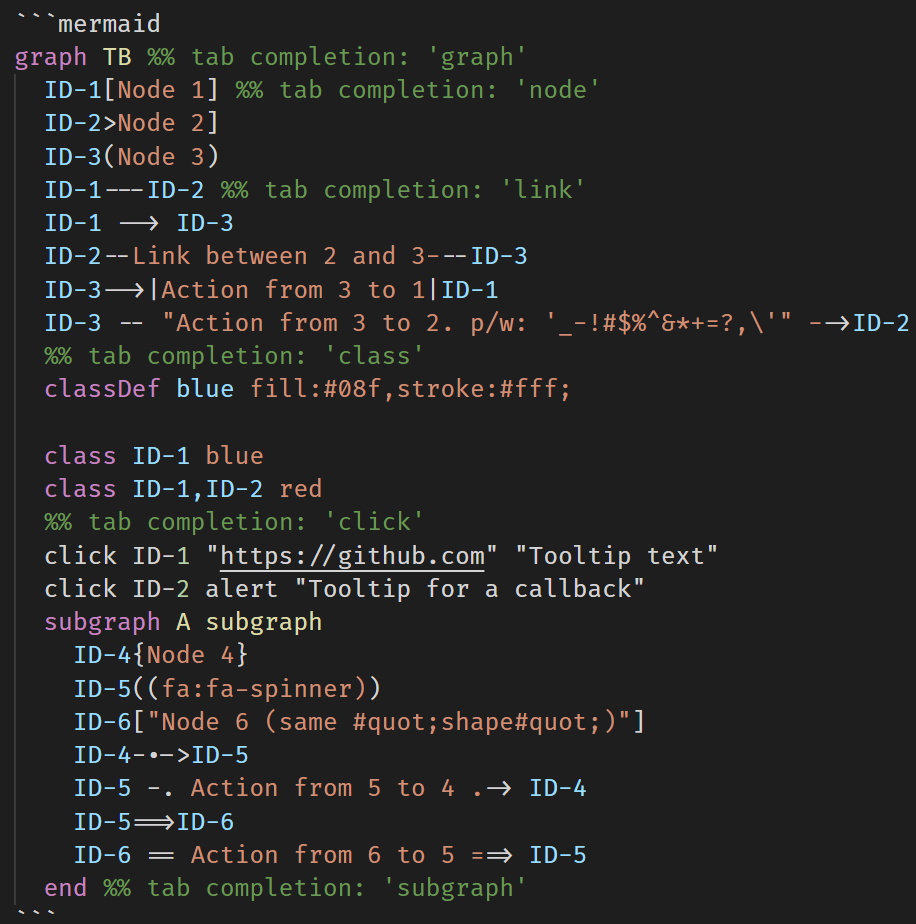
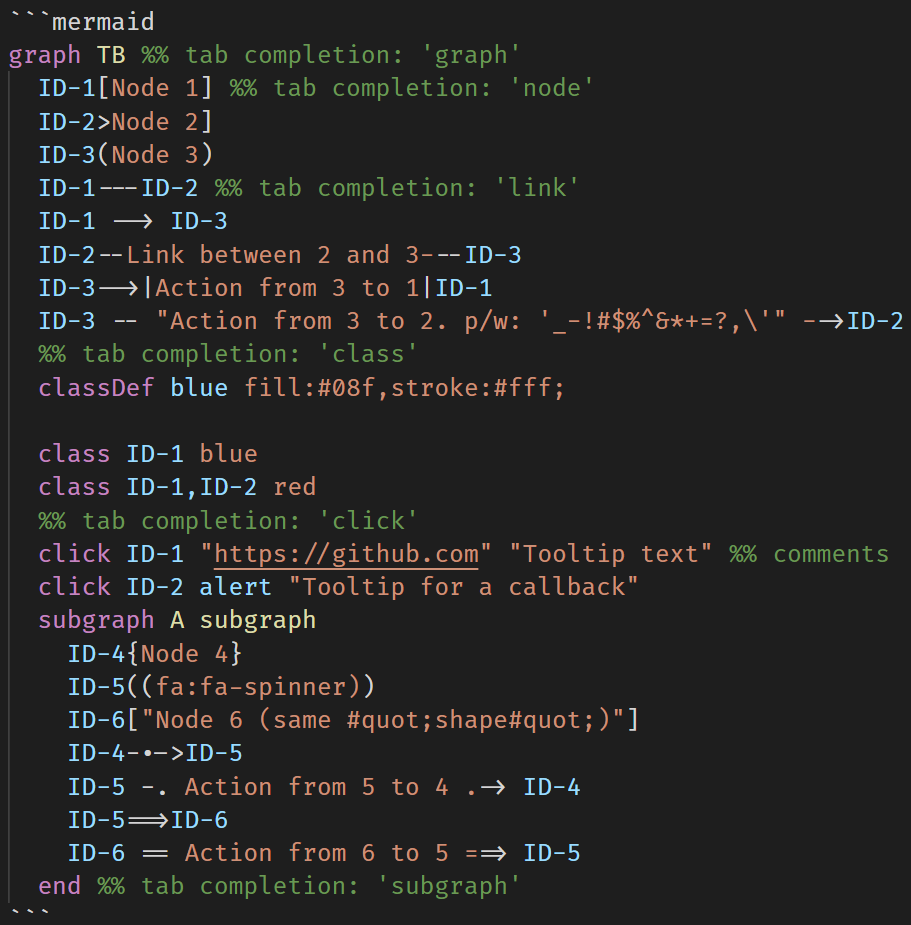
docs: update graph screenshot with click support

diff --git a/README.md b/README.md
@@ -21,7 +21,7 @@ graph TB %% tab completion: 'graph'
   class ID-1 blue
   class ID-1,ID-2 red
   %% tab completion: 'click'
-  click ID-1 "https://github.com" "Tooltip text"
+  click ID-1 "https://github.com" "Tooltip text" %% comments
   click ID-2 alert "Tooltip for a callback"
   subgraph A subgraph
     ID-4{Node 4}
